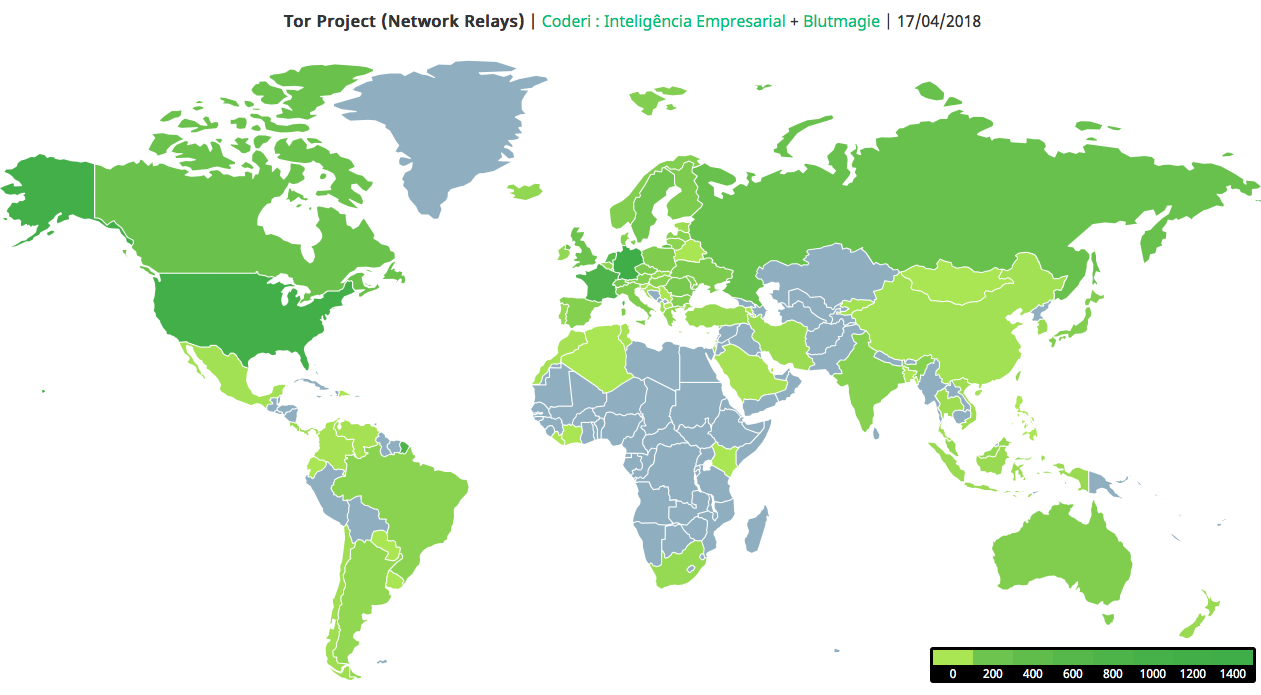
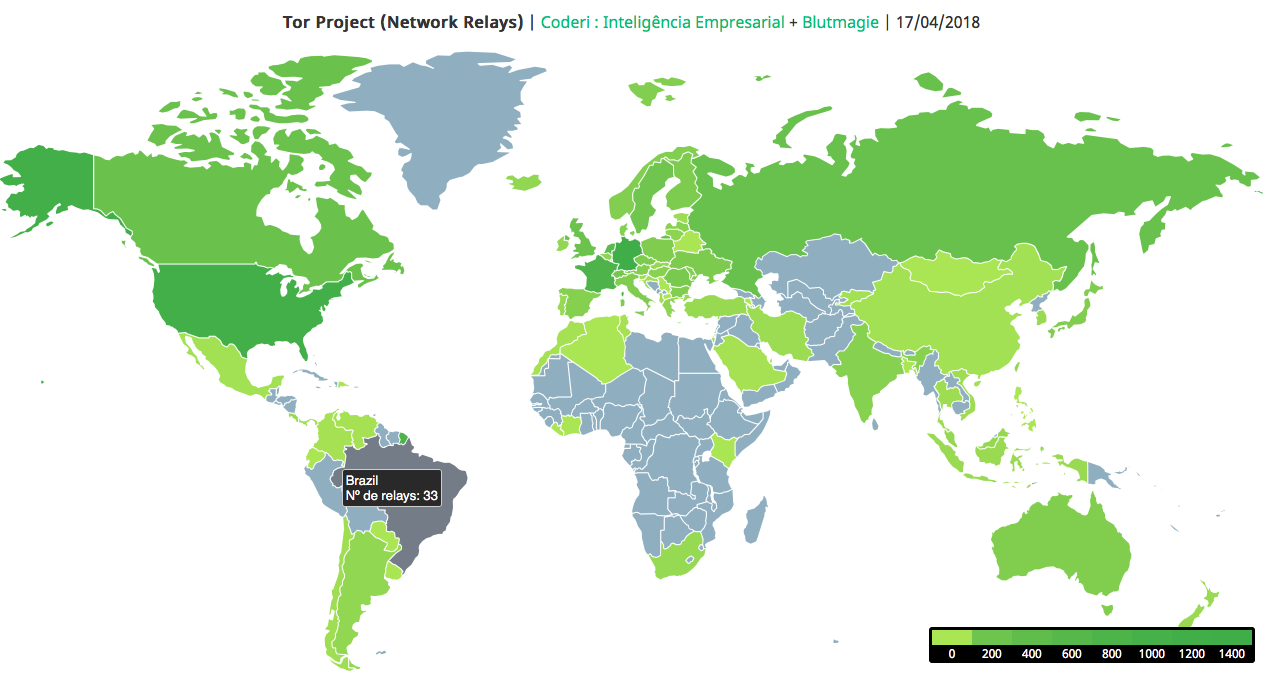
Adiciona informação p/ processamento de dados

diff --git a/README.md b/README.md
@@ -1,21 +1,23 @@
-# Tor Project Relays
-Simplified global mapping of the **Tor Project** nodes network by Coderi : Inteligência Empresarial.
+# Tor Project Relays Locations
+Simplified global mapping (world location) of the **Tor Project** nodes network by *Coderi : Inteligência Empresarial*.
 
 ![1.0.0](https://img.shields.io/badge/Version-1.0.0-green.svg?longCache=true&style=flat)
 
-CSV Data: http://blutmagie.de/query_export.php/Tor_query_EXPORT.csv  
+#### Sample screen
+![Sample](images/sample.png)
 
-## Install & Run
-* Install: `npm install`
+### Install & Run
+* Install dependencies: `npm install`
 * Local server: `npm run serve` - http://127.0.0.1:8080
 
-### Technology
+### Processing data
+CSV Data: http://blutmagie.de/query_export.php/Tor_query_EXPORT.csv  
+
+Counting (decreasing): `curl -s  http://blutmagie.de/query_export.php/Tor_query_EXPORT.csv | awk 'BEGIN { FS = "," } ; { print $2 }' | sort | uniq -c | sort -nr`
+
+### Technology & Sources
 * Tor Project - https://www.torproject.org
 * Blutmagie - http://blutmagie.de/
 * JQuery - https://jquery.com
 * JVectorMap - http://jvectormap.com
 * Node & NPM - https://nodejs.org
-
-### Sample screen
-
-![Sample](images/sample.png)
